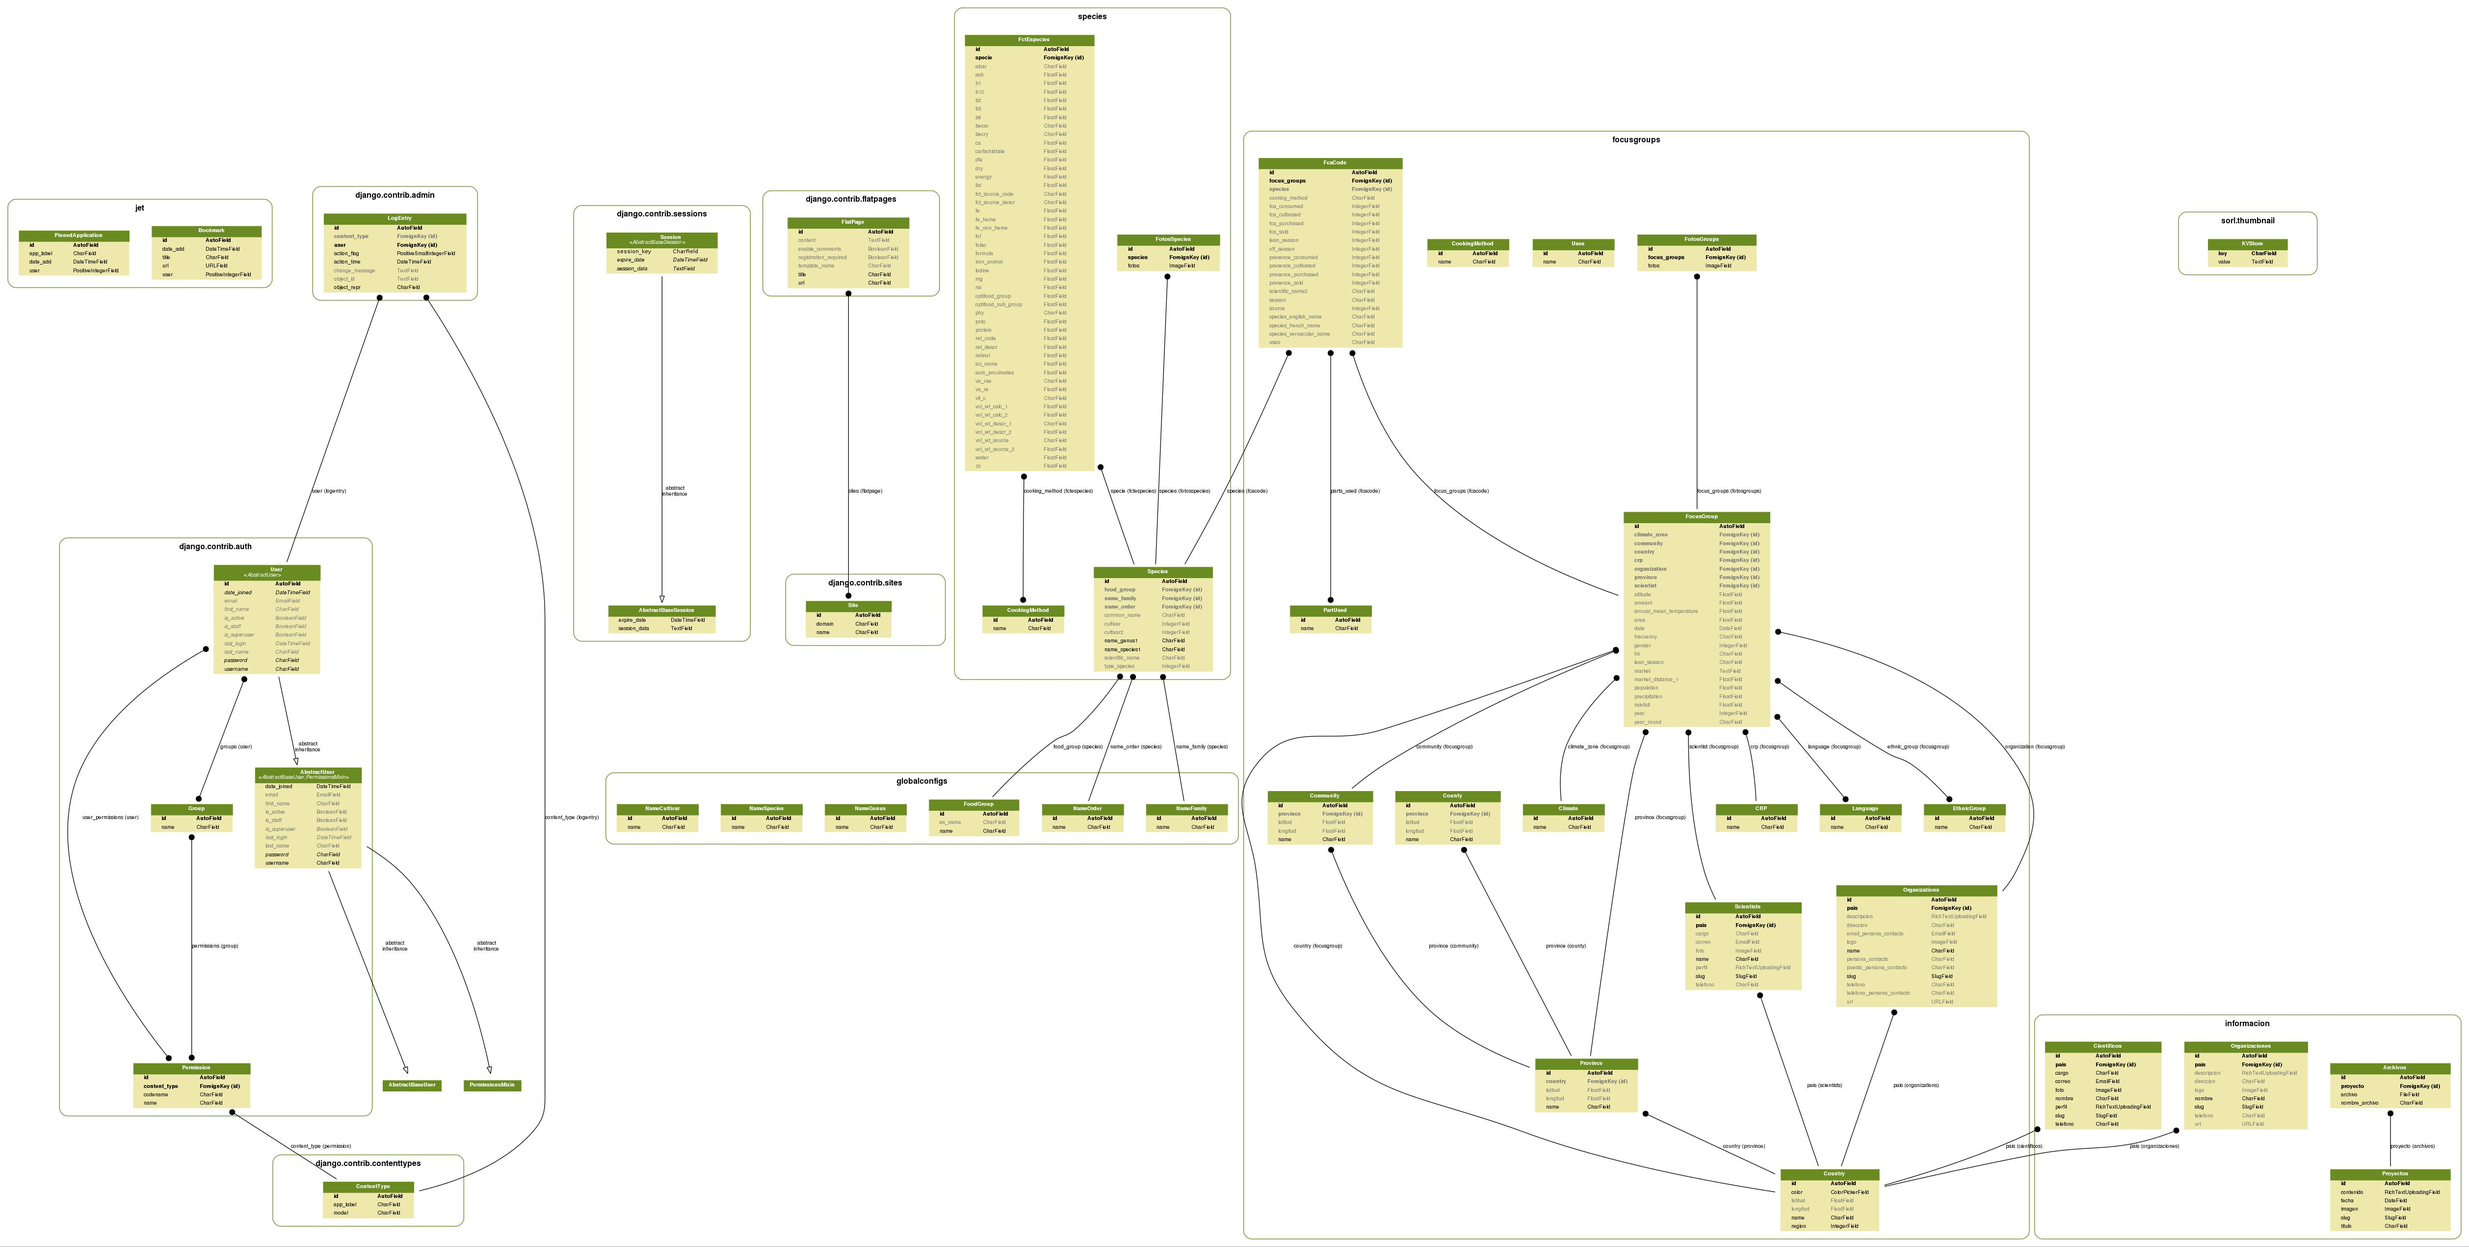
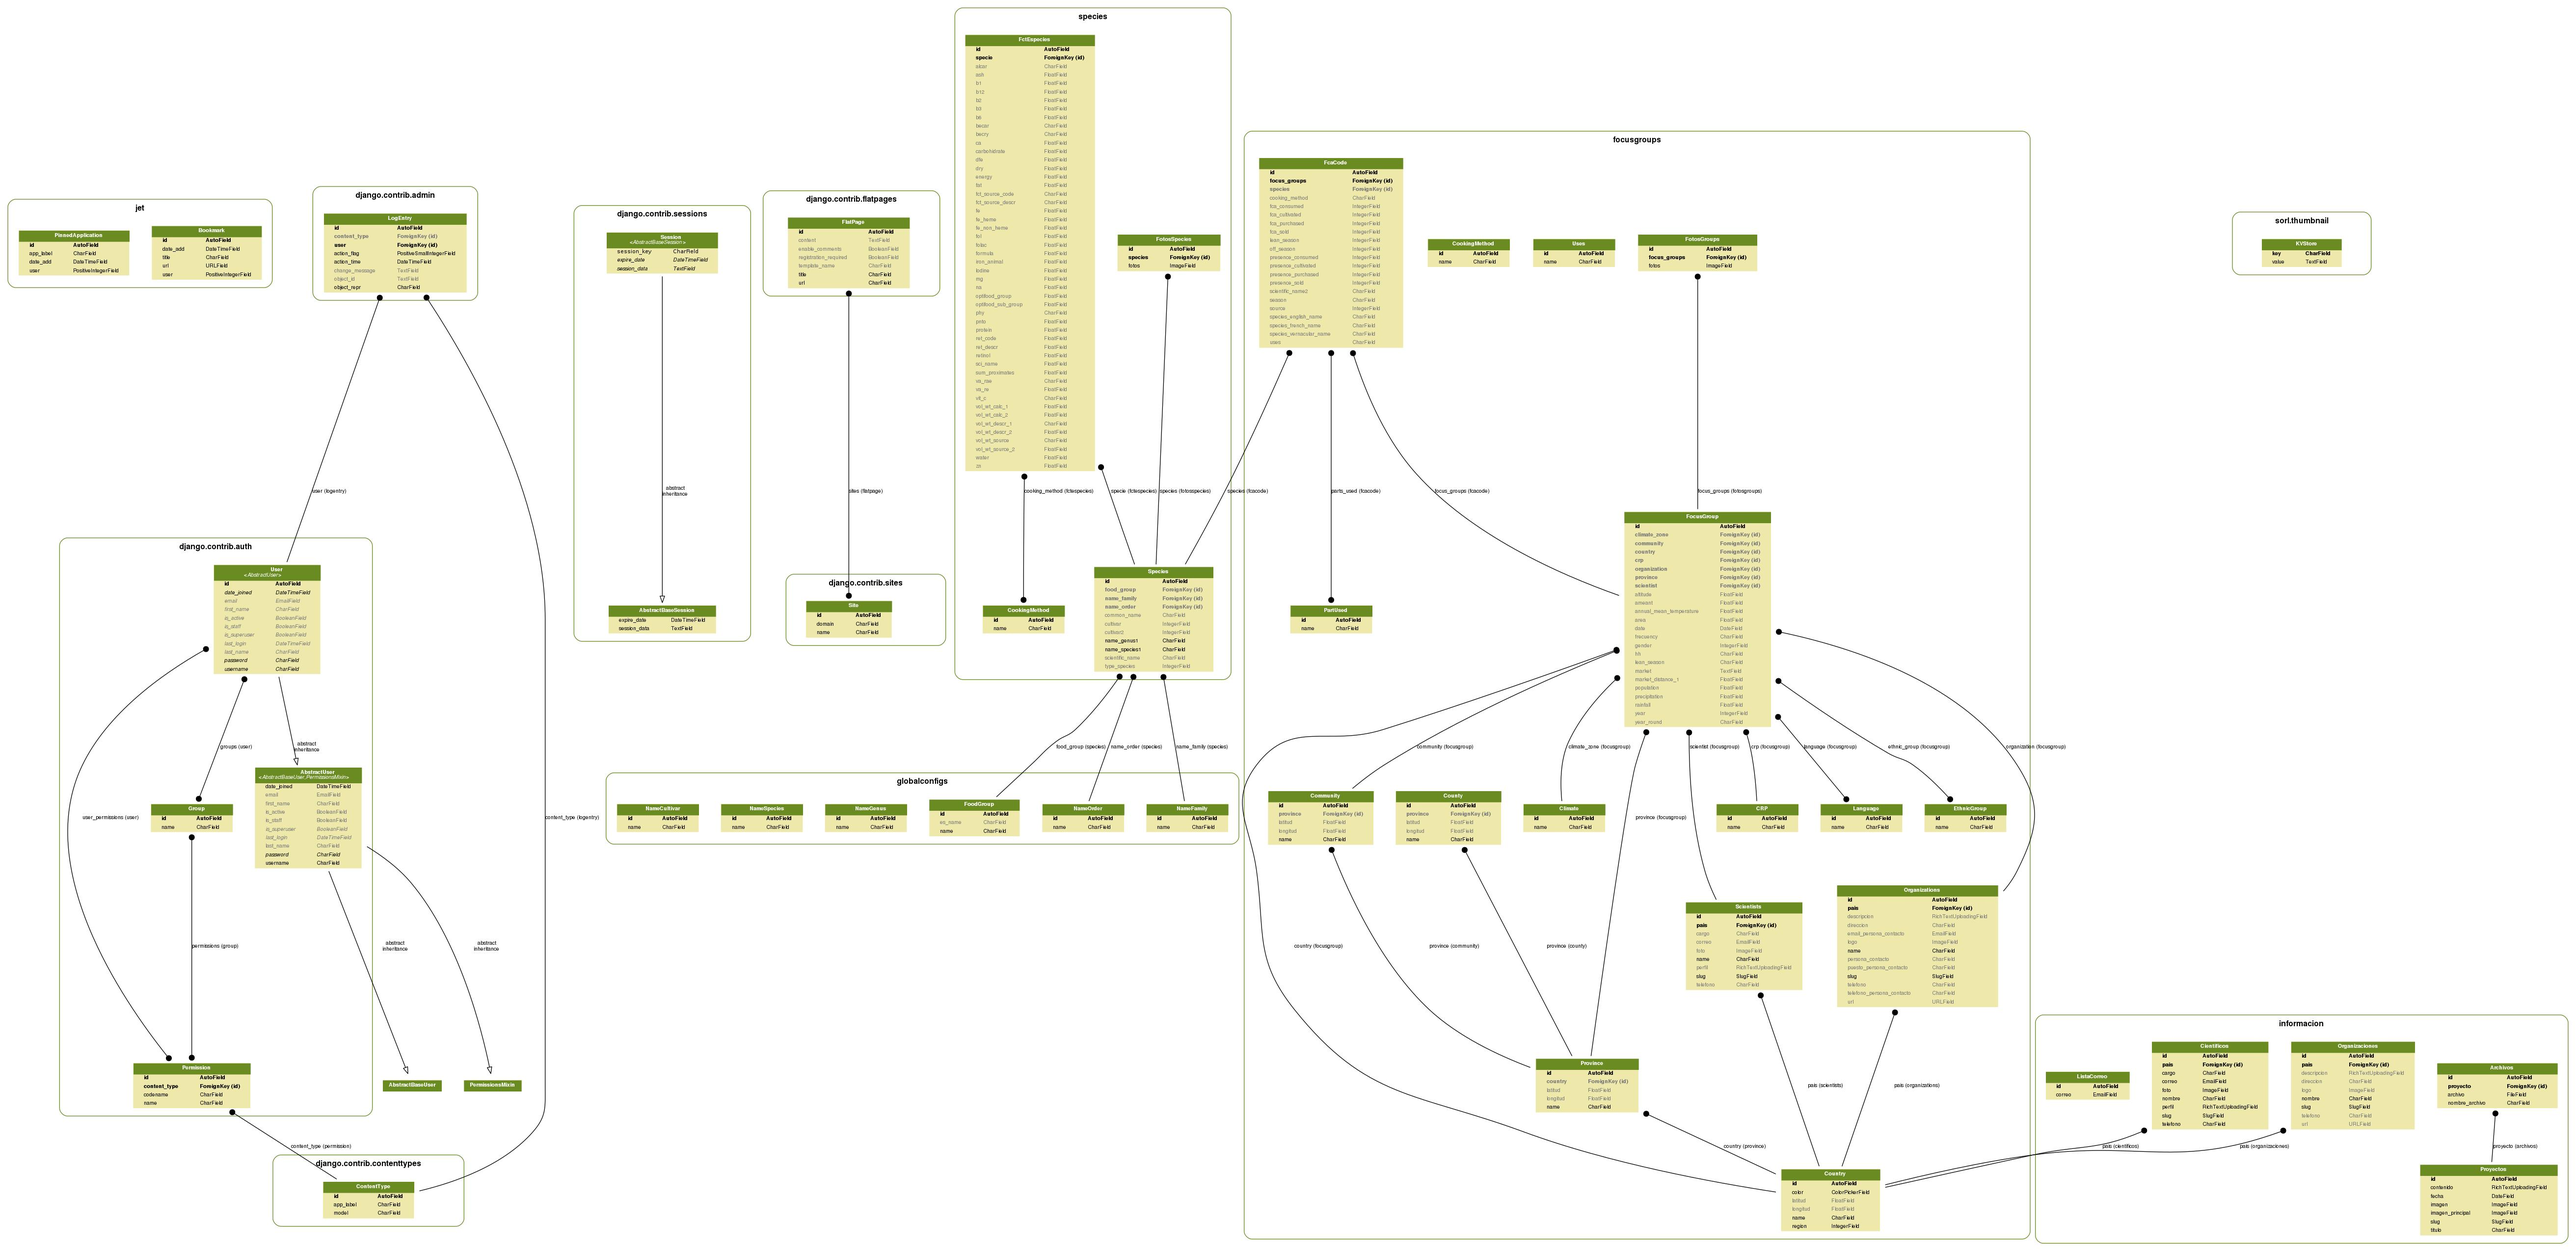
finalizando proyecto especies

diff --git a/templates/base.html b/templates/base.html
@@ -38,6 +38,9 @@
   margin: 0;
   padding: 10px;
 }
+.dropdown-menu>li>a {
+    font-weight: 200 !important;
+}
 </style>
 
 <script>
@@ -82,11 +85,19 @@
 			<div class="navbar-collapse collapse">
 				<ul class="nav navbar-nav">
 					<li><a href="/">{% trans "INICIO" %}</a></li>
-					<li><a href="/filters/">{% trans "EXPLORAR DATOS" %}</a></li>
-          <li><a href="{% if LANGUAGE_CODE == 'es' %}/uso-de-informacion/{% elif LANGUAGE_CODE == 'en' %}/information-use/{% endif %}">{% trans "USO DE INFORMACIÓN" %}</a></li>
-					<li><a href="{% if LANGUAGE_CODE == 'es' %}/metodologia/{% elif LANGUAGE_CODE == 'en' %}/methodology/{% endif %}">{% trans "METODOLOGÍA" %}</a></li>
+          <li role="presentation" class="dropdown">
+            <a class="dropdown-toggle" data-toggle="dropdown" href="#" role="button" aria-haspopup="true" aria-expanded="false">
+              {% trans "EXPLORAR DATOS" %} <span class="caret"></span>
+            </a>
+            <ul class="dropdown-menu">
+              <li><a href="/filters/">{% trans "EXPLORAR DATOS" %}</a></li>
+              <li><a href="{% if LANGUAGE_CODE == 'es' %}/politicas-uso-datos/{% elif LANGUAGE_CODE == 'en' %}/data-use-policy/{% endif %}">{% trans "POLÍTICAS USO DE DATOS" %}</a></li>
+              <li><a href="{% if LANGUAGE_CODE == 'es' %}/como-citarnos/{% elif LANGUAGE_CODE == 'en' %}/how-to-cite-us/{% endif %}">{% trans "COMO CITARNOS" %}</a></li>
+            </ul>
+          </li>
+          <li><a href="/contact/">{% trans "INVOLUCRARSE" %}</a></li>
+          <li><a href="{% if LANGUAGE_CODE == 'es' %}/metodologia/{% elif LANGUAGE_CODE == 'en' %}/methodology/{% endif %}">{% trans "METODOLOGÍA" %}</a></li>
 					<li><a href="/publications-and-proyects-list/">{% trans "PUBLICACIONES Y PROYECTOS" %}</a></li>
-					<li><a href="/contact/">{% trans "INVOLUCRARSE" %}</a></li>
           <li><a href="{% if LANGUAGE_CODE == 'es' %}/socios/{% elif LANGUAGE_CODE == 'en' %}/partners/{% endif %}">{% trans "SOCIOS" %}</a></li>
 					<li><a href="/admin">{% trans "INICIAR SESIÓN" %}</a></li>
 				</ul>

diff --git a/templates/index.html b/templates/index.html
@@ -192,7 +192,7 @@
 <!-- Organizaciones Section
 	================================================== -->
 <div class="ourteam" id="team">
-	<div class="container">
+	<!--<div class="container">
 		<div class="head_section">
 			<h2>{% trans "CONTRIBUYENTES" %}</h2>
 		</div>
@@ -247,7 +247,7 @@
 				</div>
 			</div>
 
-		</div>
+		</div>-->
 		<div class="clearfix"></div>
 		<div>
 			<h4 style="text-align:center;">{% trans "Organizaciones" %}</h4>

diff --git a/templates/publicacion-list.html b/templates/publicacion-list.html
@@ -27,8 +27,8 @@
 						</div>
 						<div class="post-image">
 							<a href="{% url 'proyecto-detalle' obj.slug %}"><i class="fa fa-search"></i></a>
-							{% if obj.imagen %}
-							{% thumbnail obj.imagen "740x450" crop="center" as img %}
+							{% if obj.imagen_principal %}
+							{% thumbnail obj.imagen_principal "740x450" crop="center" as img %}
 							<img src="/media/{{img}}" alt="">
 							{% endthumbnail %}
 							{% else %}

diff --git a/informacion/migrations/0004_auto_20170301_1909.py b/informacion/migrations/0004_auto_20170301_1909.py
@@ -1,0 +1,27 @@
+# -*- coding: utf-8 -*-
+# Generated by Django 1.9.7 on 2017-03-01 19:09
+from __future__ import unicode_literals
+
+from django.db import migrations
+import sorl.thumbnail.fields
+
+
+class Migration(migrations.Migration):
+
+    dependencies = [
+        ('informacion', '0003_listacorreo'),
+    ]
+
+    operations = [
+        migrations.AddField(
+            model_name='proyectos',
+            name='imagen_principal',
+            field=sorl.thumbnail.fields.ImageField(default=1, upload_to='imagenes/'),
+            preserve_default=False,
+        ),
+        migrations.AlterField(
+            model_name='proyectos',
+            name='imagen',
+            field=sorl.thumbnail.fields.ImageField(upload_to='imagenes/', verbose_name='Imagen detalle'),
+        ),
+    ]

diff --git a/informacion/models.py b/informacion/models.py
@@ -13,7 +13,9 @@ class Proyectos(models.Model):
     titulo = models.CharField(max_length=450)
     slug = models.SlugField(editable=False, max_length=450)
     fecha = models.DateField()
-    imagen = ImageField(upload_to='imagenes/')
+    imagen_principal = ImageField(upload_to='imagenes/',verbose_name='Imagen portada')
+    imagen = ImageField(upload_to='imagenes/',verbose_name='Imagen detalle')
+
     contenido = RichTextUploadingField()
 
     def save(self, *args, **kwargs):
